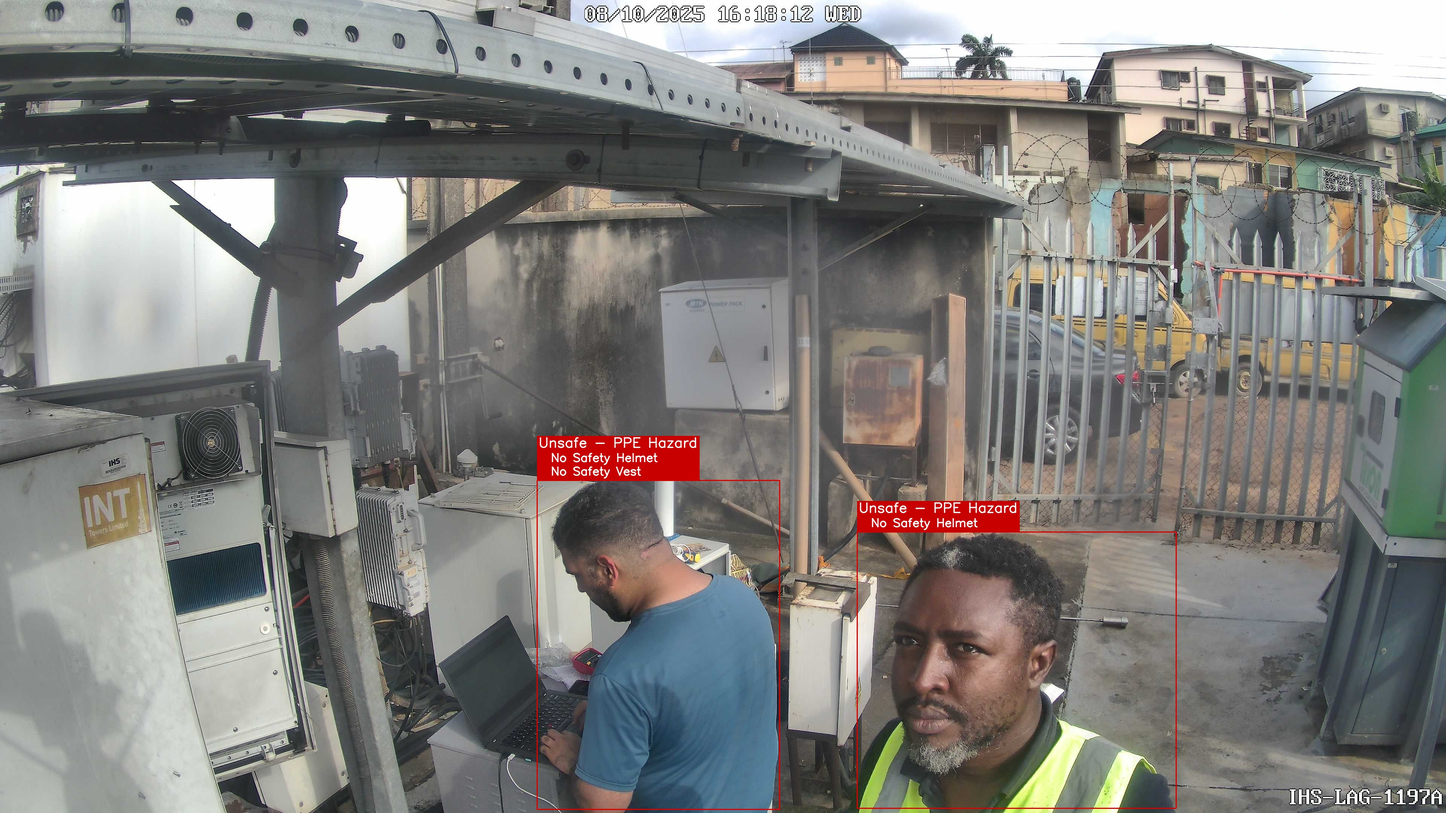
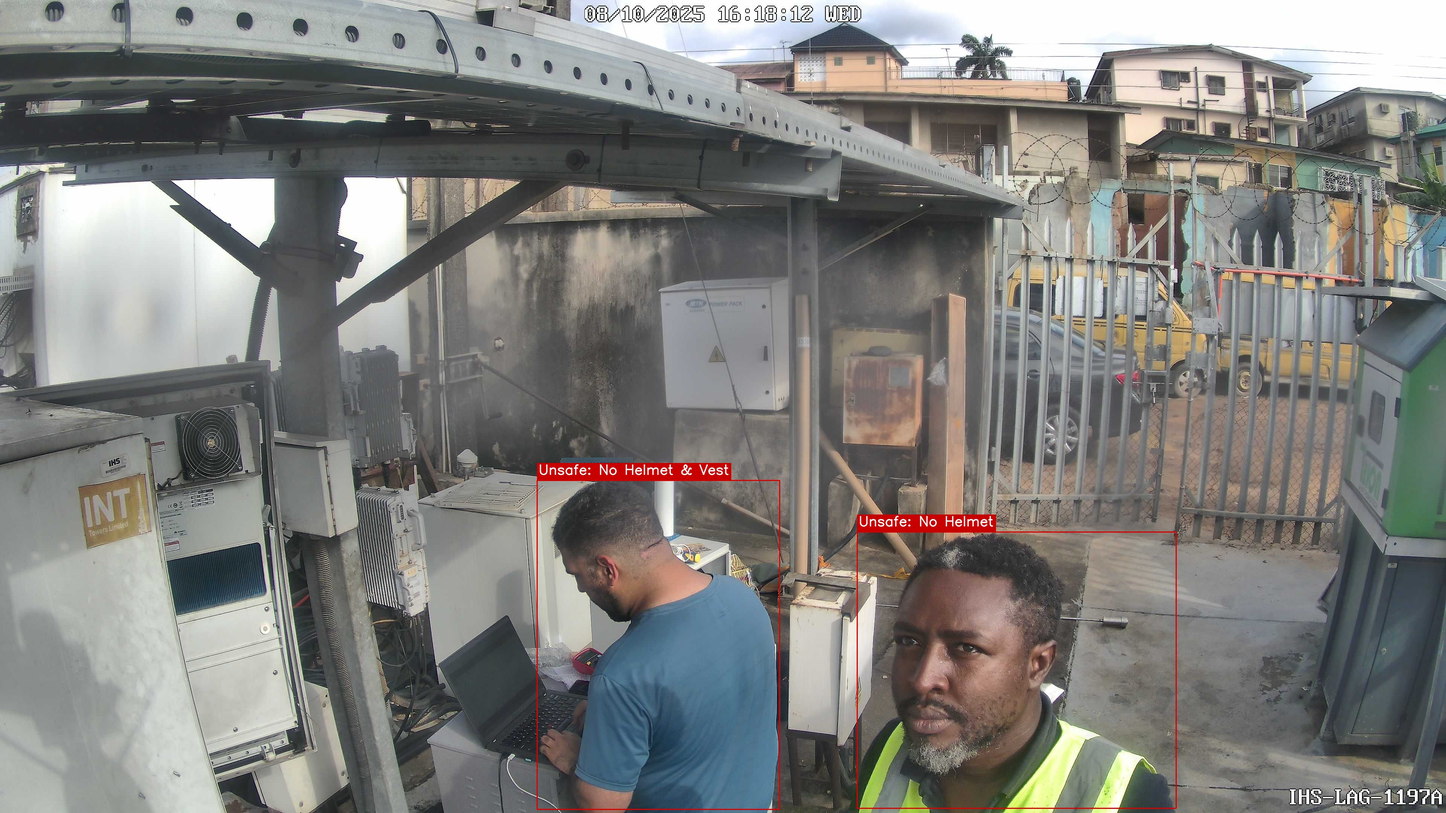
Updated Annotation Labels

Changed region(s): [[0.375, 0.5273, 0.5312, 0.5894], [0.5938, 0.5894, 0.7188, 0.6514]]

diff --git a/src/annotator.py b/src/annotator.py
@@ -42,7 +42,7 @@ def annotate(
     For each :class:`~src.compliance.ComplianceResult`:
 
     - Draws a solid green/red rectangle around the person.
-    - Places a filled label badge (``"Safe"`` / ``"Unsafe - PPE Hazard"``).
+    - Places a filled single-line label badge (``"Safe"`` / ``"Unsafe: ..."``).
       The badge is drawn **above** the box when space permits; when the box
       sits at or near the top of the image the badge is drawn **inside** the
       box so it is always fully visible.
@@ -90,31 +90,13 @@ def annotate(
         box_h = max(1, y2 - y1)
         font_scale = max(0.4, min(1.2, box_h / 400.0))
         thickness = max(1, int(font_scale * 2))
-        sub_font_scale = font_scale * 0.85
-        sub_thickness = max(1, thickness)
 
-        # Build label lines: main label + missing equipment details
-        lines = [result.label]
-        if not result.is_safe:
-            if not result.has_helmet:
-                lines.append("  No Safety Helmet")
-            if not result.has_vest:
-                lines.append("  No Safety Vest")
+        # Single-line label (compliance.py builds the full text)
+        label = result.label
+        (tw, th_px), bl = cv2.getTextSize(label, _FONT, font_scale, thickness)
 
-        # Measure all lines to compute total badge size
-        line_metrics = []
-        max_text_w = 0
-        total_text_h = 0
-        for i, line in enumerate(lines):
-            fs = font_scale if i == 0 else sub_font_scale
-            th = thickness if i == 0 else sub_thickness
-            (tw, th_px), bl = cv2.getTextSize(line, _FONT, fs, th)
-            line_metrics.append((tw, th_px, bl, fs, th))
-            max_text_w = max(max_text_w, tw)
-            total_text_h += th_px + bl + _LABEL_PAD
-
-        badge_h = total_text_h + _LABEL_PAD
-        badge_w = max_text_w + 2 * _LABEL_PAD
+        badge_h = th_px + bl + 2 * _LABEL_PAD
+        badge_w = tw + 2 * _LABEL_PAD
 
         # --- Badge horizontal placement (never exceeds image width) ---
         badge_x1 = x1
@@ -131,21 +113,17 @@ def annotate(
 
         cv2.rectangle(out, (badge_x1, badge_y1), (badge_x2, badge_y2), bg_color, -1)
 
-        # Draw each line
-        cursor_y = badge_y1 + _LABEL_PAD
-        for i, (tw, th_px, bl, fs, th) in enumerate(line_metrics):
-            cursor_y += th_px
-            cv2.putText(
-                out,
-                lines[i],
-                (badge_x1 + _LABEL_PAD, cursor_y),
-                _FONT,
-                fs,
-                _COLOR_WHITE,
-                th,
-                cv2.LINE_AA,
-            )
-            cursor_y += bl + _LABEL_PAD
+        text_y = badge_y1 + _LABEL_PAD + th_px
+        cv2.putText(
+            out,
+            label,
+            (badge_x1 + _LABEL_PAD, text_y),
+            _FONT,
+            font_scale,
+            _COLOR_WHITE,
+            thickness,
+            cv2.LINE_AA,
+        )
 
     logger.debug("Annotated image", extra={"persons": len(results)})
     return out

diff --git a/tests/test_annotator.py b/tests/test_annotator.py
@@ -78,18 +78,17 @@ class TestAnnotate:
         np.testing.assert_array_equal(out_without, out_without_ppe)
 
     def test_unsafe_label_shows_missing_helmet(self, blank_image):
-        """Unsafe badge for missing helmet is taller than safe badge (extra line)."""
+        """Unsafe badge for missing helmet has more red pixels than safe badge."""
         safe_result = make_result(True)
         unsafe_no_helmet = make_result(False, has_helmet=False, has_vest=True)
         out_safe = annotate(blank_image, [safe_result])
         out_unsafe = annotate(blank_image, [unsafe_no_helmet])
-        # Unsafe badge must have more red pixels (it's taller due to sub-line)
         safe_red = np.sum(out_safe[:, :, 2] > 150)
         unsafe_red = np.sum(out_unsafe[:, :, 2] > 150)
         assert unsafe_red > safe_red
 
     def test_unsafe_label_shows_missing_vest(self, blank_image):
-        """Unsafe badge for missing vest is taller than safe badge."""
+        """Unsafe badge for missing vest has more red pixels than safe badge."""
         safe_result = make_result(True)
         unsafe_no_vest = make_result(False, has_helmet=True, has_vest=False)
         out_safe = annotate(blank_image, [safe_result])
@@ -98,8 +97,8 @@ class TestAnnotate:
         unsafe_red = np.sum(out_unsafe[:, :, 2] > 150)
         assert unsafe_red > safe_red
 
-    def test_unsafe_missing_both_has_largest_badge(self):
-        """Missing both helmet and vest produces the tallest badge."""
+    def test_unsafe_missing_both_has_widest_badge(self):
+        """Missing both helmet and vest produces a wider badge than missing one."""
         big_img = np.full((800, 800, 3), 50, dtype=np.uint8)
         missing_one = make_result(False, x1=100, y1=200, x2=400, y2=700,
                                   has_helmet=False, has_vest=True)

diff --git a/src/compliance.py b/src/compliance.py
@@ -53,7 +53,15 @@ class ComplianceResult:
     @property
     def label(self) -> str:
         """Human-readable compliance label."""
-        return "Safe" if self.is_safe else "Unsafe - PPE Hazard"
+        if self.is_safe:
+            return "Safe"
+        parts = []
+        if not self.has_helmet:
+            parts.append("No Helmet")
+        if not self.has_vest:
+            parts.append("No Vest")
+        reason = parts[0] + " & Vest" if len(parts) == 2 else parts[0] if parts else "PPE Violation"
+        return f"Unsafe: {reason}"
 
 
 def assess_compliance(detections: list[Detection]) -> list[ComplianceResult]:

diff --git a/tests/test_compliance.py b/tests/test_compliance.py
@@ -63,7 +63,7 @@ class TestSinglePersonUnsafe:
 
     def test_label_unsafe(self, person_box):
         results = assess_compliance([person_box])
-        assert results[0].label == "Unsafe - PPE Hazard"
+        assert results[0].label == "Unsafe: No Helmet & Vest"
 
     def test_vest_alone_is_unsafe(self, person_box, vest_overlapping):
         """Safety Vest alone does not satisfy compliance — hardhat also required."""

diff --git a/src/main.py b/src/main.py
@@ -146,7 +146,7 @@ def detect():
         status = (
             "Safe"
             if results and all(r.is_safe for r in results)
-            else ("Unsafe - PPE Hazard" if results else "No person detected")
+            else ("Unsafe" if results else "No person detected")
         )
 
         if request.args.get("json") == "1":

diff --git a/README.md b/README.md
@@ -1,6 +1,6 @@
 # PPE Detection Pipeline
 
-Personal Protective Equipment (PPE) compliance detection for construction sites using a dual-model YOLOv8 architecture. The system processes camera images, detects persons, evaluates whether each person is wearing a **hardhat** and **safety vest**, and returns annotated images labelled **"Safe"** or **"Unsafe - PPE Hazard"**.
+Personal Protective Equipment (PPE) compliance detection for construction sites using a dual-model YOLOv8 architecture. The system processes camera images, detects persons, evaluates whether each person is wearing a **hardhat** and **safety vest**, and returns annotated images labelled **"Safe"** or **"Unsafe: No Helmet"** / **"Unsafe: No Vest"** / **"Unsafe: No Helmet & Vest"**.
 
 Designed for deployment on a Digital Ocean droplet receiving images from site cameras via FTP.
 
@@ -100,7 +100,9 @@ For each detected `Person` bounding box that passes all filters:
 | Condition | Result | Colour | Annotation |
 |-----------|--------|--------|------------|
 | Hardhat matched AND Safety Vest matched, no negative signals | **Safe** | Green | `Safe` |
-| Missing hardhat, missing vest, or negative override present | **Unsafe - PPE Hazard** | Red | `Unsafe - PPE Hazard` + missing items listed below |
+| Missing hardhat only | **Unsafe** | Red | `Unsafe: No Helmet` |
+| Missing vest only | **Unsafe** | Red | `Unsafe: No Vest` |
+| Missing both, or negative override present | **Unsafe** | Red | `Unsafe: No Helmet & Vest` |
 
 ### PPE-to-Person Matching
 
@@ -250,14 +252,14 @@ curl -X POST http://localhost:5000/detect \
 **JSON Response (when `?json=1`):**
 ```json
 {
-  "status": "Unsafe - PPE Hazard",
+  "status": "Unsafe",
   "persons_detected": 2,
   "safe": 1,
   "unsafe": 1
 }
 ```
 
-**Status values:** `"Safe"`, `"Unsafe - PPE Hazard"`, `"No person detected"`
+**Status values:** `"Safe"`, `"Unsafe"`, `"No person detected"`
 
 **Error responses:** `400` (bad input), `500` (inference error)
 
@@ -279,22 +281,26 @@ Minimal HTML upload form for manual browser testing.
 └──────────────┘
 ```
 
-**Unsafe persons** receive a multi-line red badge listing the specific missing equipment:
+**Unsafe persons** receive a single-line red badge specifying the missing equipment:
 
 ```
-┌───────────────────────┐
-│ Unsafe - PPE Hazard   │
-│   No Safety Helmet    │
-│   No Safety Vest      │
-└───────────────────────┘
-```
+┌──────────────────────────────┐
+│ Unsafe: No Helmet         │  ← missing helmet only
+└──────────────────────────────┘
 
-If only one item is missing, only that line appears. Both lines appear when both are absent.
+┌──────────────────────────────┐
+│ Unsafe: No Vest           │  ← missing vest only
+└──────────────────────────────┘
+
+┌──────────────────────────────┐
+│ Unsafe: No Helmet & Vest  │  ← missing both
+└──────────────────────────────┘
+```
 
 ### Visual Style
 
 - **Safe:** Green bounding box + green badge with white `"Safe"` text.
-- **Unsafe:** Red bounding box + red badge with white text. Missing equipment listed as indented sub-lines (85% font scale, same stroke weight as the main label for legibility).
+- **Unsafe:** Red bounding box + red single-line badge with white text specifying the missing equipment.
 - **Badge position:** Above the bounding box when space permits. Falls back to inside the box at its top edge when the person is near the top of the image.
 - **Font:** `cv2.FONT_HERSHEY_SIMPLEX`. Scale proportional to box height for readability at any resolution (4K → 1080p).
 - **PPE overlay:** When `DRAW_PPE_BOXES=true`, individual PPE bounding boxes are drawn in yellow. Default `true` in Flask mode; batch mode uses `false` for clean client-review output.
@@ -326,7 +332,7 @@ python scripts/run_batch_test.py --input scripts/2025/ --dry-run
 | Status | Count |
 |--------|-------|
 | Safe | 42 |
-| Unsafe - PPE Hazard | 71 |
+| Unsafe | 71 |
 | No person detected | 501 |
 | Failed | 0 |
 
@@ -350,7 +356,7 @@ pytest tests/test_compliance.py -v
 | Module | Tests |
 |--------|-------|
 | `test_compliance.py` (22) | Safe (hat+vest), Unsafe (missing either), vest-alone, hat-alone, negative overrides, NO-Safety Vest override, multi-person, no-double-counting (hats and vests), nearest-neighbour in overlapping zones |
-| `test_annotator.py` (11) | Green/red colours, badge placement, box clipping, PPE box toggle, multi-line unsafe badge (missing helmet, missing vest, missing both) |
+| `test_annotator.py` (11) | Green/red colours, badge placement, box clipping, PPE box toggle, single-line unsafe badge (missing helmet, missing vest, missing both) |
 | `test_detector.py` (8) | Detection NamedTuple, label constants, singleton, dual-model merge |
 | `test_integration.py` (8) | Full pipeline (safe, unsafe, no-person), Flask routes (`/health`, `/detect`, `/`), JSON response mode |
 
@@ -533,7 +539,7 @@ for r in results:
     print(r.is_safe)        # True/False
     print(r.has_helmet)     # True/False
     print(r.has_vest)       # True/False
-    print(r.label)          # "Safe" or "Unsafe - PPE Hazard"
+    print(r.label)          # "Safe" or "Unsafe: No Helmet" etc.
 ```
 
 **Key data types:**
@@ -545,7 +551,7 @@ Detection(label: str, confidence: float, x1: float, y1: float, x2: float, y2: fl
 
 # ComplianceResult (dataclass)
 ComplianceResult(person: Detection, is_safe: bool, has_vest: bool, has_helmet: bool)
-# .label property returns "Safe" or "Unsafe - PPE Hazard"
+# .label property returns "Safe" or "Unsafe: No Helmet" / "No Vest" / "No Helmet & Vest"
 ```
 
 **Model singleton:** `PPEDetector.get_instance()` loads both models into memory (~400 MB total). Call once at application startup — subsequent calls return the cached instance. Use a single gunicorn worker to keep both models in memory.
